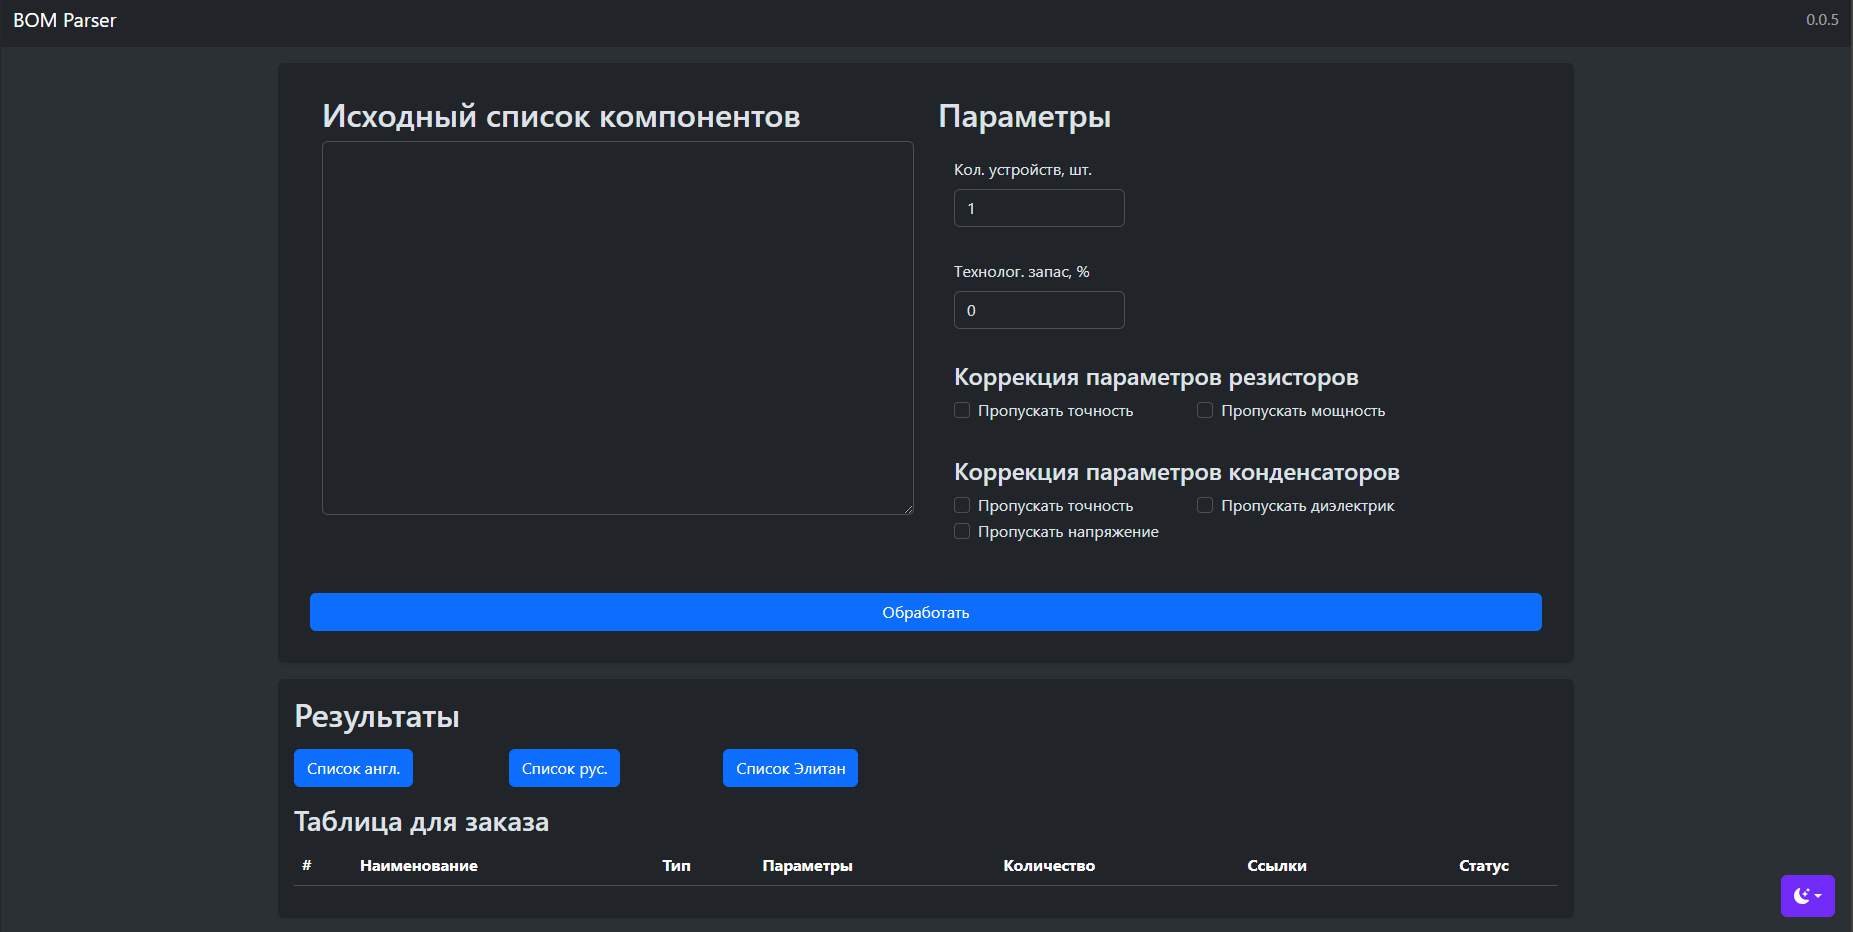
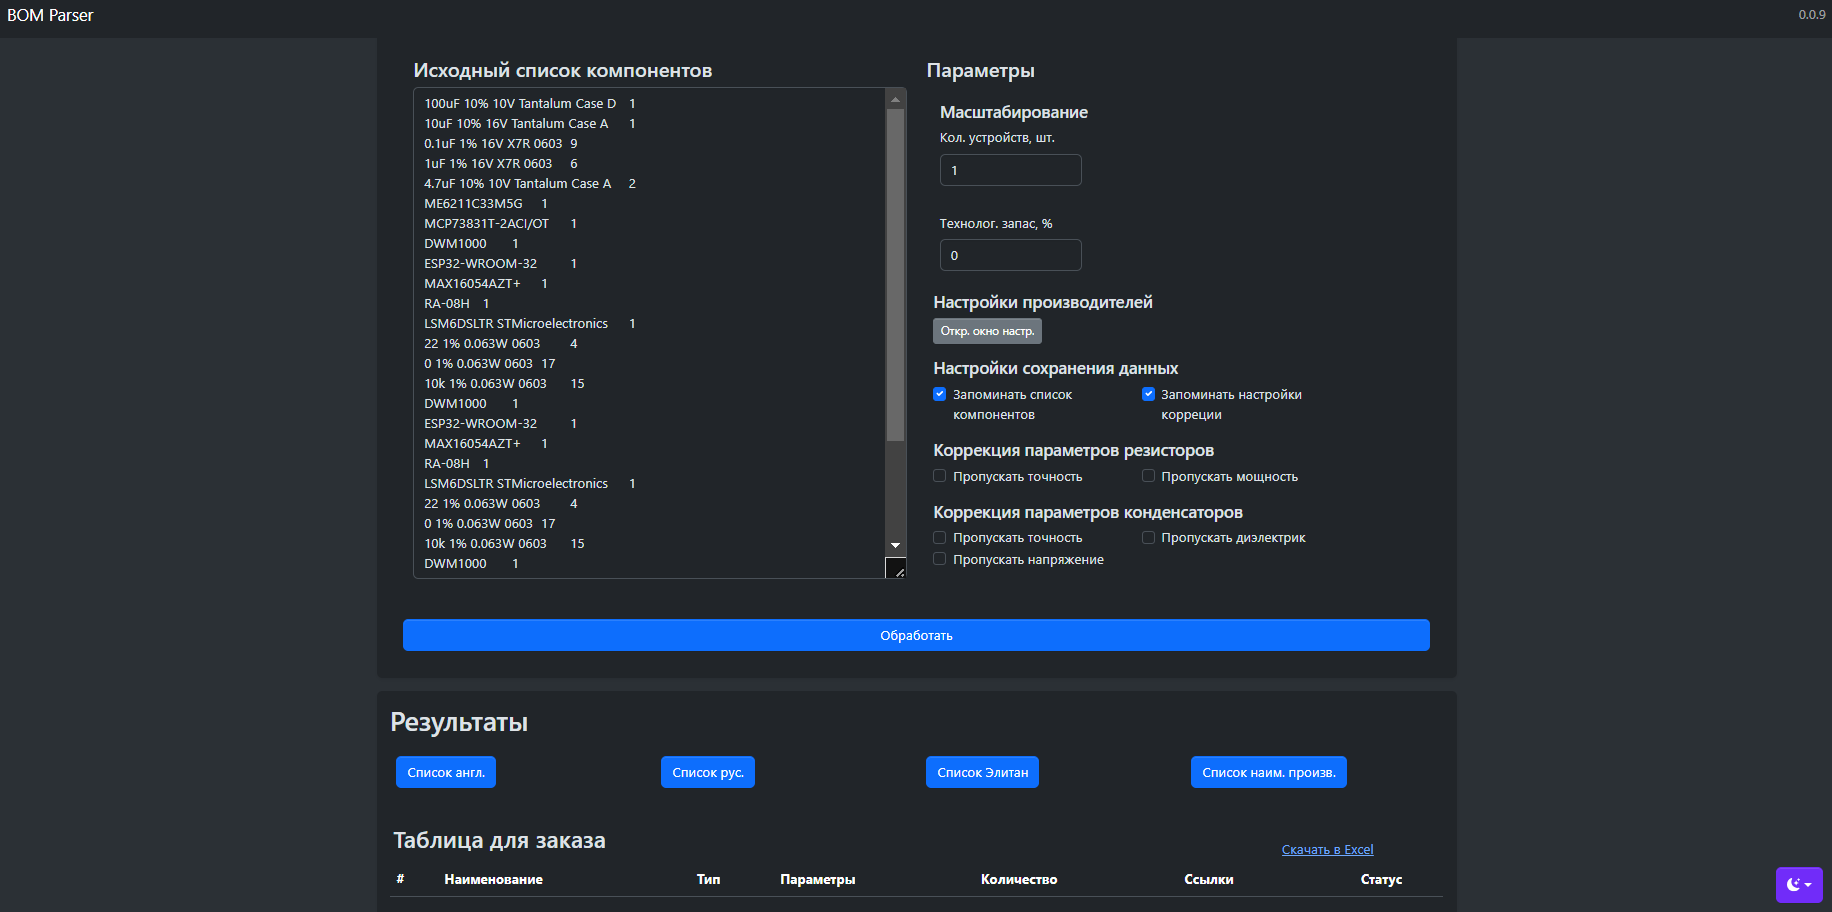
Обновлен README, CHANGELOG

diff --git a/README.md b/README.md
@@ -58,12 +58,26 @@ LSM6DSLTR STMicroelectronics;1
 1. Список с единицами измерения на англ. языке;
 2. Список с единицами измерения на русском языке;
 3. Список в формате названий магазина элитан;
+4. Список наименований конкретных производителей (настройка производителей происходит в отдельном окне);
 
-### Пример списока с единицами измерения на русском языке
+### Пример списка с единицами измерения на русском языке
 
-![Пример списока с единицами измерения на русском языке](Resources/out_modal_example.png)
+![Пример списока с единицами измерения на русском языке](Resources/out_modal_example_ru.png)
 
 Данный список, например, можно скопировать на обработку BOM в специальную форму магазина ["Чип и Дип"](https://www.chipdip.ru/specs).
+
+
+### Пример списка с единицами измерения на английском языке
+
+![Пример списока с единицами измерения на русском языке](Resources/out_modal_example_en.png)
+
+
+
+
+### Пример списка с наименованиями производителей
+
+![Пример списока с единицами измерения на русском языке](Resources/out_modal_example_man.png)
+
 
 
 

diff --git a/CHANGELOG.md b/CHANGELOG.md
@@ -1,5 +1,8 @@
 ## Head
 
+## 1.0.0
+* Добавлено окно настройки производителей компонентов;
+
 ## 0.0.9
 * Добавлена возможность скачать результаты в Excel;
 
